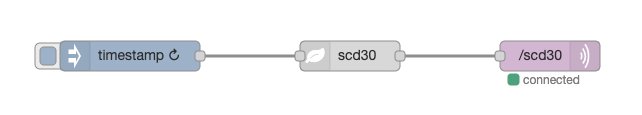
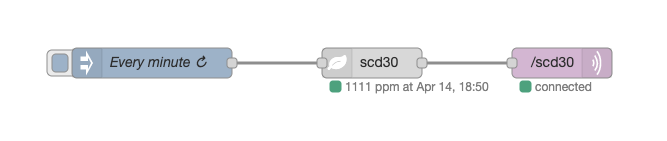
add node status

Changed region(s): [[0.0312, 0.313, 0.9346, 0.7565]]

diff --git a/nodes/read-measurement.js b/nodes/read-measurement.js
@@ -1,8 +1,19 @@
 var NODE_TYPE = 'read-measurement';
 
+function formatDate(date) {
+  return date.toLocaleDateString('en-US', {
+    month: 'short',
+    day: 'numeric',
+    hour12: false,
+    hour: 'numeric',
+    minute: 'numeric'
+  });
+}
+
 module.exports = function (RED) {
   function ReadMeasurementNode(config) {
     RED.nodes.createNode(this, config);
+    var node = this;
 
     this.on('input', function (msg, send, done) {
       var scd30Promise = RED.nodes.getNode(config.scd30Config).scd30;
@@ -14,9 +25,13 @@ module.exports = function (RED) {
         .then(function (measurement) {
           msg.payload = measurement;
           send(msg);
+          node.status({fill: 'green', shape: 'dot', text: `${Math.round(measurement.co2Concentration)} ppm at ${formatDate(new Date())}`});
+          done();
         })
-        .then(done)
-        .catch(done);
+        .catch(function(err) {
+          node.status({fill: 'red', shape: 'ring', text: 'Error'});
+          done(err);
+        });
     })
   }
 
